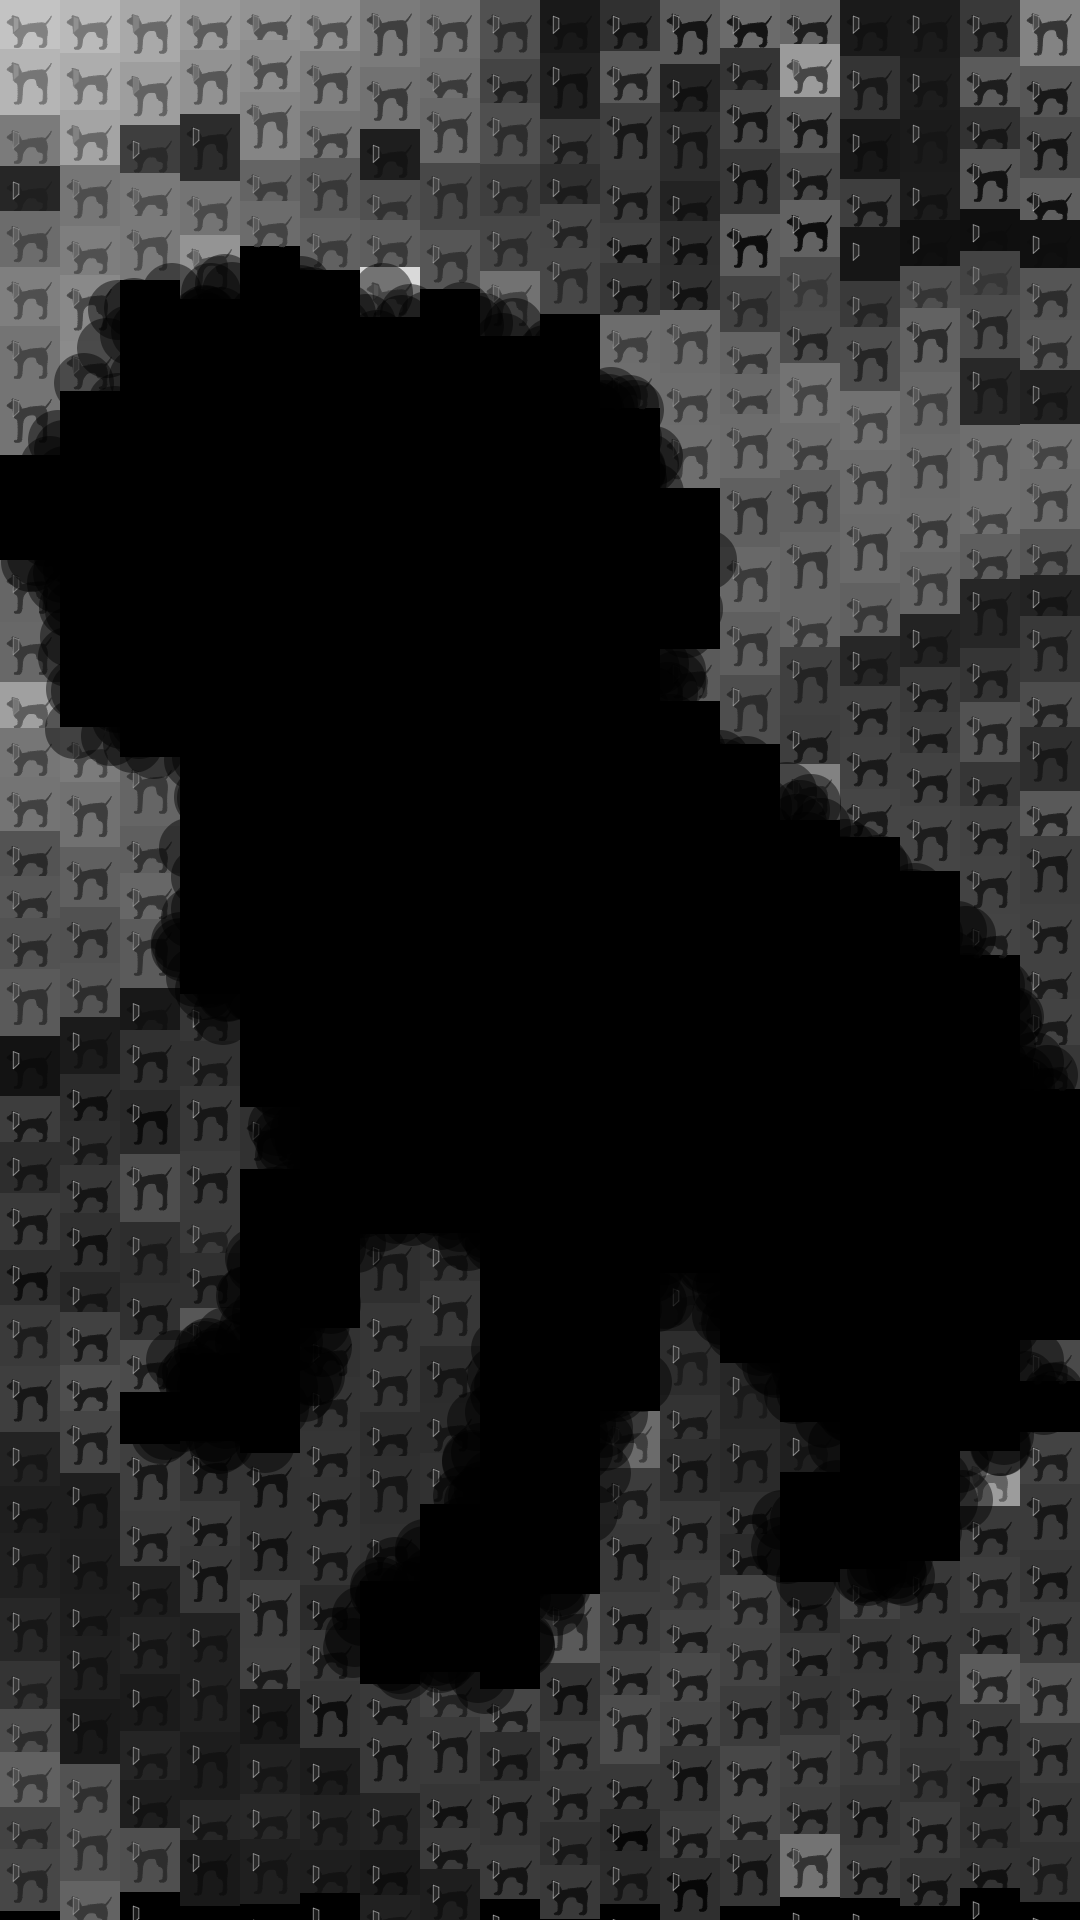
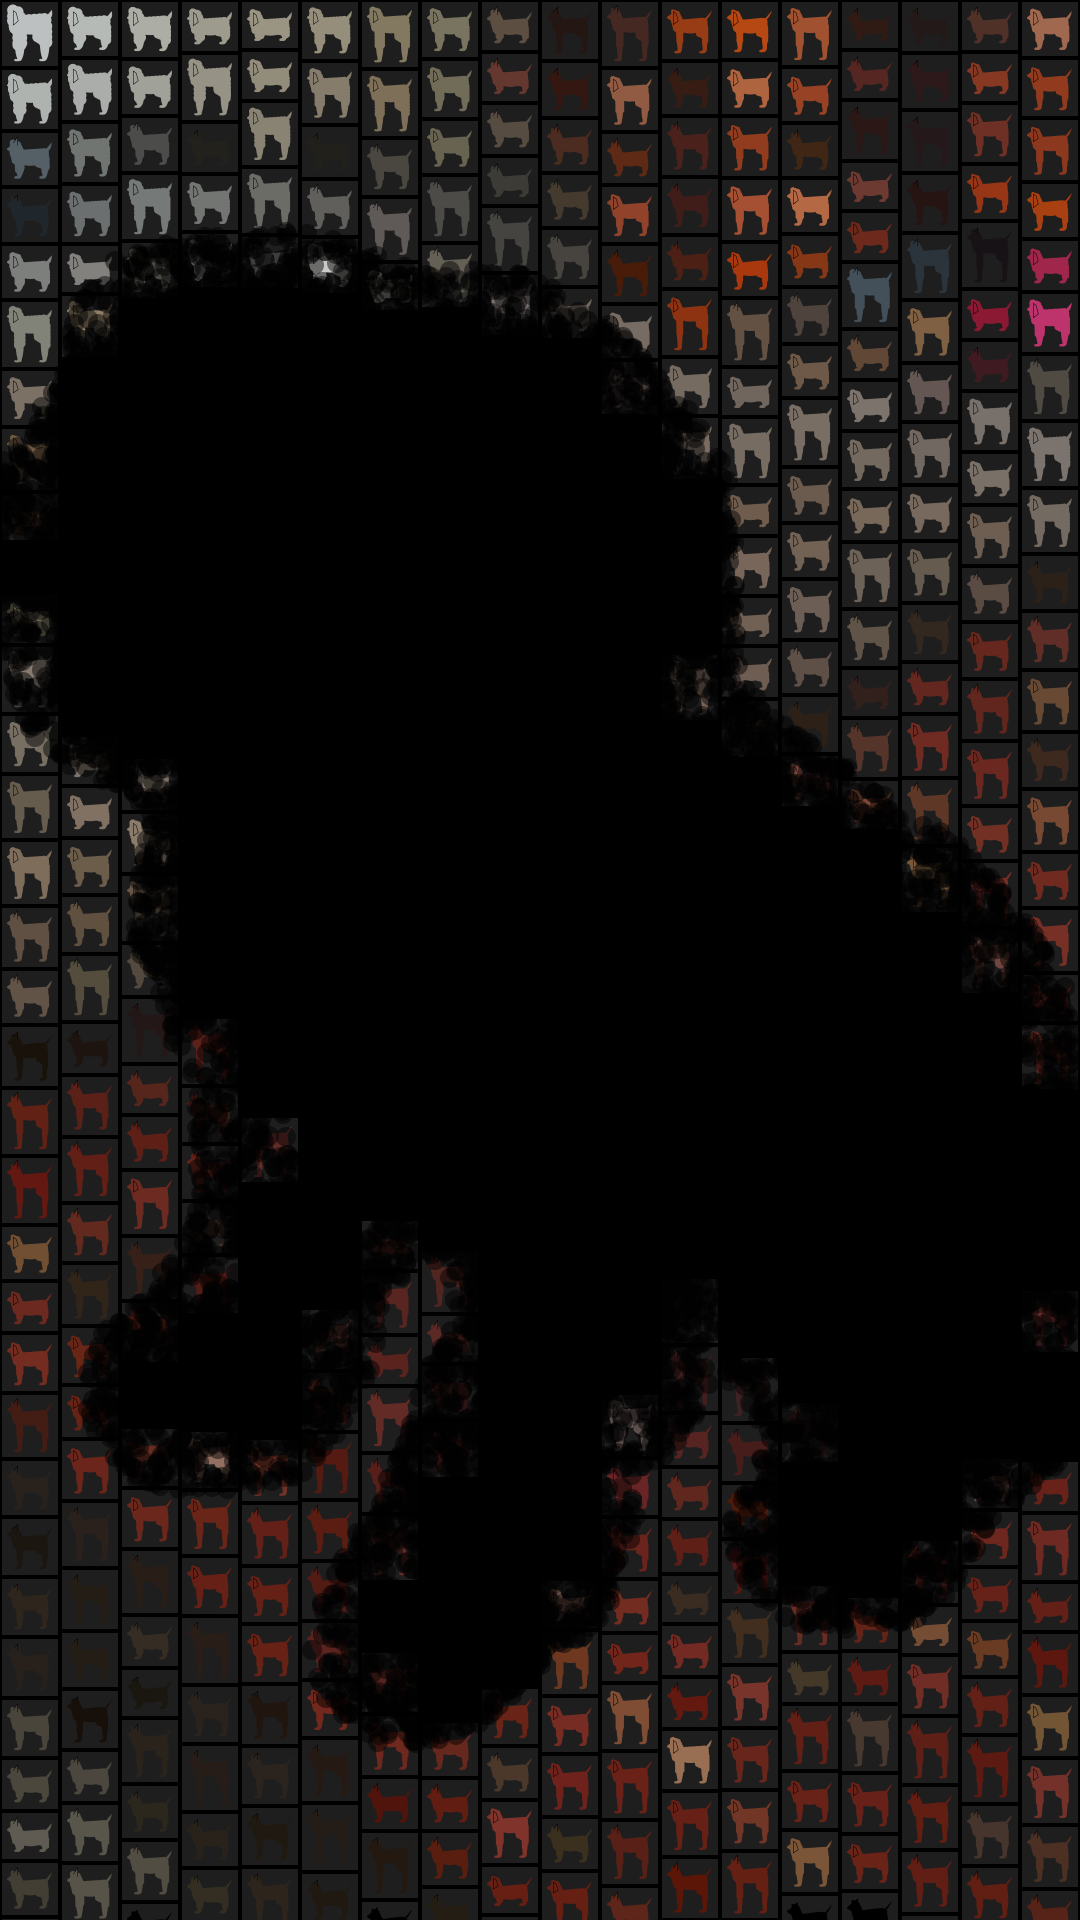
updated first design

diff --git a/sketch.js b/sketch.js
@@ -4,6 +4,7 @@ let maskImg=null;
 function preload() {
 	sourceImg = loadImage("input_1.jpg");
 	maskImg = loadImage("mask_1.png");
+	maskImgB = loadImage("mask_1b.png");
 }
 
 function setup () {
@@ -12,14 +13,14 @@ function setup () {
 	  angleMode(DEGREES);
 	  imageMode(CENTER);
 	  noStroke();
-	  background(200);
+	  background(0);
 	  sourceImg.loadPixels();
 	  maskImg.loadPixels();
 }
 
 let pointWidth = 60;
 let pointHeight = 60;
-let pointSize = 60;
+let pointSize = 20;
 
 function draw () {
 	//draw squares across background
@@ -27,35 +28,36 @@ function draw () {
 		for(let j = 0; j < 1920; j+=pointHeight) {
 			let xBack = i;
 			let yBack = j;
-			pointHeight = floor(random(40, 70));
+			pointHeight = floor(random(50, 70));
 			if(i>=1920-70){
-				pointWidth = 1920 - j;
+				pointHeight = 1920 - j;
 			}
 			let pix = sourceImg.get(xBack+pointWidth/2, yBack+pointHeight/2);
 			let mask = maskImg.get(xBack+pointWidth/2, yBack+pointHeight/2);
 			if(mask[0] <= 128){
-				// convert to grayscale (remove color, keep brightness in hsluv colorspace)
-      			let hsluvColor = convertRgbToHsluv(pix);
-				fillHsluv(0, 0, hsluvColor[2]);
+				fill(30);
+				stroke(0);
+				strokeWeight(4);
 				rect(xBack, yBack, pointWidth, pointHeight); 
-			}
-			else{
-				fill(pix);
-				rect(xBack, yBack, pointWidth, pointHeight); 
+				strokeWeight(0.5);
+				noStroke();
+				drawDogs(xBack, yBack, pointWidth, pointHeight, pix);
 			}
 		}
 	}
-	//draw hearts 
-	for(let i=0;i<2000;i++) {
+	for(let i = 0; i < 6000; i++){
 		let xFront = floor(random(sourceImg.width));
 		let yFront = floor(random(sourceImg.height));
-		let pix = sourceImg.get(xFront, yFront);
-		let mask = maskImg.get(xFront, yFront);
-		let heartSize = 150;
-		if(mask[0] > 128) {
-			fill(pix);
-			drawHeart(xFront, yFront, heartSize, heartSize, pix);
+		let mask = maskImgB.get(xFront, yFront);
+		while(mask[0] <= 128){
+			xFront = floor(random(sourceImg.width));
+			yFront = floor(random(sourceImg.height));
+			mask = maskImgB.get(xFront, yFront);
+			
 		}
+		let pix = sourceImg.get(xFront, yFront);
+		fill(0, 0, 0, 120);
+		ellipse(xFront, yFront, pointSize, pointSize);
 	}
 
 	//when done
@@ -65,27 +67,200 @@ function draw () {
 
 }
 
-function drawHeart(centreX, centreY, size, size, values){
-	let height = size/4;
-  	let r = values[0];
-  	let g = values[1];
-	//update width
-	let width = map(g, 0, 255, size/5, size/2);
-  	let b = values[2];	
-	//update rotation
-	let rotation = map(b, 0, 255, -90, 90);
-		
-	
-	//draw heart
+
+function drawDogs(centreX, centreY, width, height, values){
 	push();
 	translate(centreX, centreY);
-	rotate(rotation);
-	arc(-width/4, 0, width/2, width/2, 180, 360);
-	arc(width/4, 0, width/2, width/2, 180, 360);
-	triangle(-width/2, 0, width/2, 0, 0, height);
+	let strokeWidth = 0.5;
+  	let red = values[0];
+  	let green = values[1];
+    let legHeight = map(height, 50, 70, 0, 25);
+  	let blue = values[2];
+	let fillColour = values;
+	let strokeColour = 0;
+    
+    //basic dog shape
+    //head
+    let headX = width/2 - width/3.5;
+    let headY = height/2-legHeight/2-width/8;
+    let headHeight = width/6;
+    let headLength = width/7;
+
+    let noseHeight = headHeight/1.5;
+    let noseLength = headLength;
+    let noseX = headX-(headLength/2)+3;
+    let noseY = headY + headHeight/9;
+    
+    let earX = headX + headLength/20;
+    let earY = headY - headHeight/4;
+
+    let earHeight = map(red, 0, 255, headHeight/2, headHeight*1.5);
+    let earLength = headHeight/2;
+      
+    //body
+    let chestX = headX;
+    let chestY = headY + headHeight/2;
+    let chestHeight = headHeight*1.2;
+    let chestLength = headLength*3.5;
+
+    //legs
+    let leftLegX = chestX+chestLength/6;
+    let leftLegY = chestY + chestHeight;
+    let leftLegHeight = chestHeight/4+legHeight;
+    let leftLegLength = chestLength/8;
+
+    let rightLegX = chestX + chestLength;
+    let rightLegY = chestY + chestHeight/2;
+    let rightLegHeight = chestHeight/4+legHeight+chestHeight/2;
+    let rightLegLength = chestLength/8;
+    
+    let footHeight = chestHeight/4;
+    let footLength = chestLength/5;
+	
+	//tail
+    let tailX = chestX + chestLength;
+    let tailY = chestY;
+    let tailLength = headLength;
+    let tailHeight = headHeight;
+    let fluffiness = map(blue, 0, 255, 1.1, 1.35);
+
+    fill(fillColour);
+    stroke(fillColour);
+    bezier(tailX, tailY, tailX*fluffiness, tailY, tailX+tailLength, tailY-tailHeight, tailX+tailLength, tailY-tailHeight);
+	
+    //custom dog shape
+      beginShape();
+        curveTightness(0.2);
+        curveVertex(chestX+chestLength/2, chestY-noseHeight/4);
+        //back
+        curveVertex(chestX+chestLength/2, chestY-noseHeight/4);
+        curveVertex(chestX+chestLength, chestY-chestHeight/4);
+        curveVertex(chestX+chestLength*1.1, chestY);
+        //right leg
+        curveVertex(chestX+chestLength*1.15, chestY+chestHeight/2);
+        curveVertex(rightLegX+rightLegLength, rightLegY+rightLegHeight/2);
+        curveVertex(rightLegX+rightLegLength, rightLegY+rightLegHeight);
+        curveVertex(rightLegX+footLength/4, rightLegY+rightLegHeight+footHeight);
+        curveVertex(rightLegX-footLength/2, rightLegY+rightLegHeight+footHeight);
+        curveVertex(rightLegX-footLength/2, leftLegY+leftLegHeight+footHeight/2);
+        curveVertex(rightLegX, rightLegY+rightLegHeight);
+        curveVertex(rightLegX, rightLegY+rightLegHeight/2);
+        curveVertex(chestX+chestLength/3+chestLength/2, rightLegY+rightLegHeight/3);
+        curveVertex(chestX+chestLength/4+chestLength/2, chestY+chestHeight/2+map(green, 0, 255, chestHeight/20, 0));
+        //stomach
+        curveVertex(chestX+chestLength/2, chestY+chestHeight/2+map(green, 0, 255, chestHeight/20, 0));
+        //left leg
+        curveVertex(leftLegX+leftLegLength*1.4, leftLegY);
+        curveVertex(leftLegX+leftLegLength, leftLegY+leftLegHeight);
+        curveVertex(leftLegX+footLength/4, leftLegY+leftLegHeight+footHeight);
+        curveVertex(leftLegX-footLength/2, leftLegY+leftLegHeight+footHeight);
+        curveVertex(leftLegX-footLength/2, leftLegY+leftLegHeight+footHeight/2);
+        curveVertex(leftLegX, leftLegY+leftLegHeight*0.98);
+        curveVertex(chestX+chestLength/6, chestY+chestHeight);
+        //chest
+        curveVertex(chestX+chestLength/20, chestY+ chestHeight/2+chestHeight/6);
+        curveVertex(chestX, chestY);
+        //face
+        curveVertex(noseX, noseY+noseHeight/2);
+        curveVertex(noseX-noseLength/3, noseY+noseHeight/4);
+        curveVertex(noseX-noseLength/2, noseY);
+        curveVertex(noseX, noseY-noseHeight/2);
+        curveVertex(noseX+noseLength/10, headY-headHeight/2.5);
+        curveVertex(headX, headY-headHeight/2);
+        curveVertex(headX+headLength/1.7, headY-headHeight/3);
+        curveVertex(headX+headLength/1.5, headY-headHeight/6);
+        //back
+        curveVertex(leftLegX+leftLegLength, noseY+noseHeight/2);
+        curveVertex(leftLegX+leftLegLength, noseY+noseHeight/2);
+      endShape();
+
+	 //add fur
+
+	 let furSize = map(blue, 0, 255, 1, height/10);
+	 
+	//left leg
+    makeBaseFur(leftLegX, leftLegY-leftLegHeight/10, leftLegX + leftLegLength, leftLegY-leftLegHeight/10, leftLegX+leftLegLength/20, 
+      leftLegY + leftLegHeight, leftLegX + leftLegLength, leftLegY + leftLegHeight, furSize);
+	  
+    //right leg
+    makeBaseFur(rightLegX, rightLegY, rightLegX + rightLegLength, rightLegY, rightLegX+footLength/4, 
+     rightLegY + rightLegHeight, rightLegX + rightLegLength, rightLegY + rightLegHeight, furSize);
+	makeBaseFur(chestX+chestLength/3.5+chestLength/2,chestY+chestHeight/2+map(blue, 0, 255, chestHeight/20, 0),  chestX+chestLength*1.1, chestY, chestX+chestLength/3+chestLength/2, rightLegY+rightLegHeight/3, rightLegX+rightLegLength, rightLegY+rightLegHeight/2,furSize);
+	
+    //body
+    makeBaseFur(leftLegX, chestY, chestX+chestLength, chestY-chestHeight/4, leftLegX, leftLegY-chestHeight/20, chestX+chestLength/4+chestLength/2, chestY+chestHeight, furSize);  
+	
+    //add curly fur
+
+    //TL, TR, BL, BR
+    //left leg
+	furSize*=2;
+    makeFur(leftLegX, leftLegY, leftLegX + leftLegLength, leftLegY, leftLegX+leftLegLength/20, 
+      leftLegY + leftLegHeight/2, leftLegX + leftLegLength, leftLegY + leftLegHeight/2, furSize);
+    //right leg
+    makeFur(rightLegX, rightLegY, rightLegX + rightLegLength, rightLegY, rightLegX+footLength/4, 
+     rightLegY + rightLegHeight/2, rightLegX + rightLegLength, rightLegY+rightLegHeight-leftLegHeight/2, furSize);
+	makeFur(chestX+chestLength/3.5+chestLength/2,chestY+chestHeight/2+map(blue, 0, 255, chestHeight/20, 0),  chestX+chestLength*1.1, chestY, chestX+chestLength/3+chestLength/2, rightLegY+rightLegHeight/3, rightLegX+rightLegLength, rightLegY+rightLegHeight/2,furSize);
+    //upper body
+    makeFur(chestX, chestY+chestHeight/20, chestX+chestLength+chestLength/20, chestY-chestHeight/8, chestX+chestLength/15, 
+      chestY+ chestHeight/2+chestHeight/6, chestX+chestLength*1.1, chestY, furSize);
+    //lower body
+    makeFur(chestX+chestLength/15, chestY+ chestHeight/2+chestHeight/6, chestX+chestLength*1.1, chestY, leftLegX, leftLegY-chestHeight/15, chestX+chestLength/4+chestLength/2, chestY, furSize);
+    //head
+    makeFur(headX, headY-headHeight/2, headX+headLength/1.7, headY-headHeight/3, headX, 
+      chestY, leftLegX+leftLegLength, noseY+noseHeight/2, furSize);
+
+	//ears
+    stroke(strokeColour);
+	strokeWeight(strokeWidth);
+    //if ear shorter than certain length, it will be partially rigid, otherwise entirely floppy
+    
+	if(red<=100){
+      //draw pointy triangle L > M > R
+      let triHeight = earHeight;
+	  noStroke();
+	  triangle(earX, earY-headLength/4, earX+headLength/2, earY-triHeight, earX+headLength/2, earY)
+	  stroke(strokeColour);
+	  line(earX, earY-headLength/4, earX+headLength/2, earY-triHeight);
+	  line(earX+headLength/2, earY-triHeight, earX+headLength/2, earY);
+    }
+    else{
+      //just draw floppy triangle
+      //LB > LT > TR > BR
+      quad(earX, earY+earHeight, earX, earY-headLength/4, earX+headLength/3, earY,
+      earX+earLength, earY+earHeight/1.5);  
+    }
 	pop();
-	
-	
+}
+
+
+function makeBaseFur(x1, y1, x2, y2, x3, y3, x4, y4, l){
+	//makes poofy shape
+	ellipse((x1+x2)/2, (y1+y3)/2, (x2-x1)+l, (y3-y1)+l);
+}
+
+function makeFur(x1, y1, x2, y2, x3, y3, x4, y4, r){
+	//adds curls 
+	//edit top
+	for(i = x1; i <= x2; i+=r/2){
+		let j = map(i, x1, x2, y1, y2);
+		ellipse(i, j, r, r);
+	}
+	//edit bottom
+	for(i = x3; i <= x4; i+=r/4){
+		let j = map(i, x3, x4, y3, y4);
+		ellipse(i, j, r, r);
+	}
+	//edit left
+	for(j = y1; j <= y3; j+=r/2){
+		let i = map(j, y1, y3, x1, x3);
+		ellipse(i, j, r, r);
+	}
+	//edit right
+	for(j = y2; j <= y4; j+=r/2){
+		let i = map(j, y2, y4, x2, x4);
+		ellipse(i, j, r, r);
+	}
 }
 
 function convertRgbToHsluv(c) {

diff --git a/README.md b/README.md
@@ -1,5 +1,6 @@
 ## Creative Coding 2: Custom Pixel
 
-The images above are photos I have taken myself of my dog as a puppy. The mask highlights the entirety of the dog. I want to show a theme that relates to the love that needs to be put into breeding dogs instead of focusing on how they look. For my third design, I have created the dog using a heart glypth. I think the idea might look better if the dog itself was in black and white to further emphasise the design.
+The images above are photos I have taken myself of my dog as a puppy. The mask highlights the entirety of the dog. I also have a second mask that highlights the deg of the dog. I want to show a theme that relates to the negative imapcts of designer dogs and puppy farming that occurs in this country. This design uses a wide range of dog glypths to show the idea of designer dogs and have the actual dog in the photo to be a silhouette.
 
-The algorithm uses a new heart glyph design to create the dog.
+So far, the algorithm uses my glyph design from the last project to do the background. I have altered it so that the dog ears come in two variations; pointy or floppy. I have also changed the colouring so the dog is all one colour and the colour of the dog matches the original pixel underneath. I also decided to have a consistent rectangle colour and add an outline. 
+The silhouette is created using transparent ellipses. I did this because otherwise it looks quite blocky and I like that it makes the silhouette look a bit more undefined. To improve on this algorithm, I added a second mask which keeps sampling random pixels until it ends up in the second mask. I did this to make it easier to control how many ellipses will be seen.
